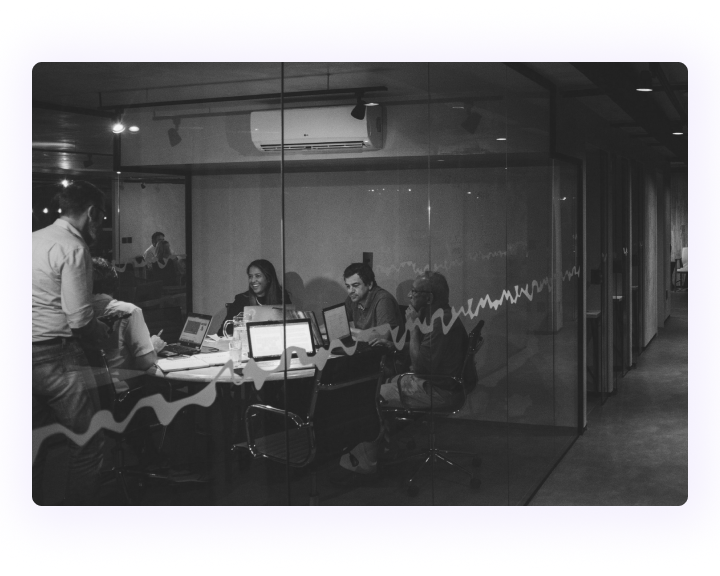
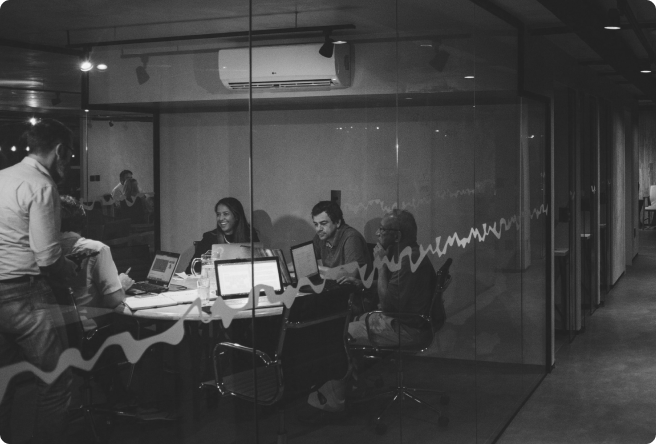
reexportar cover de nosotros page sin sombra

diff --git a/components/DiscoverWhoWeAre.vue b/components/DiscoverWhoWeAre.vue
@@ -26,8 +26,9 @@
                         personas de tareas rutinarias y permitirles abordar desafíos empresariales analíticos</span></p>
             </div>
         </div>
-        <div class="x:lw-[531px] xl:h-[358px] shrink-0">
-            <NuxtImg :src="'./discoverWhoWeAre.png'" class="w-[531px] h-[358px] rounded-[5px] object-cover"
+        <div class="x:lw-[531px] xl:h-[358px]  w-full shrink-0">
+            <NuxtImg :src="'./discoverWhoWeAre.png'"
+                class="xl:w-[531px] xl:h-[358px] w-full h-[222px] rounded-[5px] object-cover"
                 alt="photo of a group of people siting around a desk through a glassdoor inside an office space" />
         </div>
     </div>
